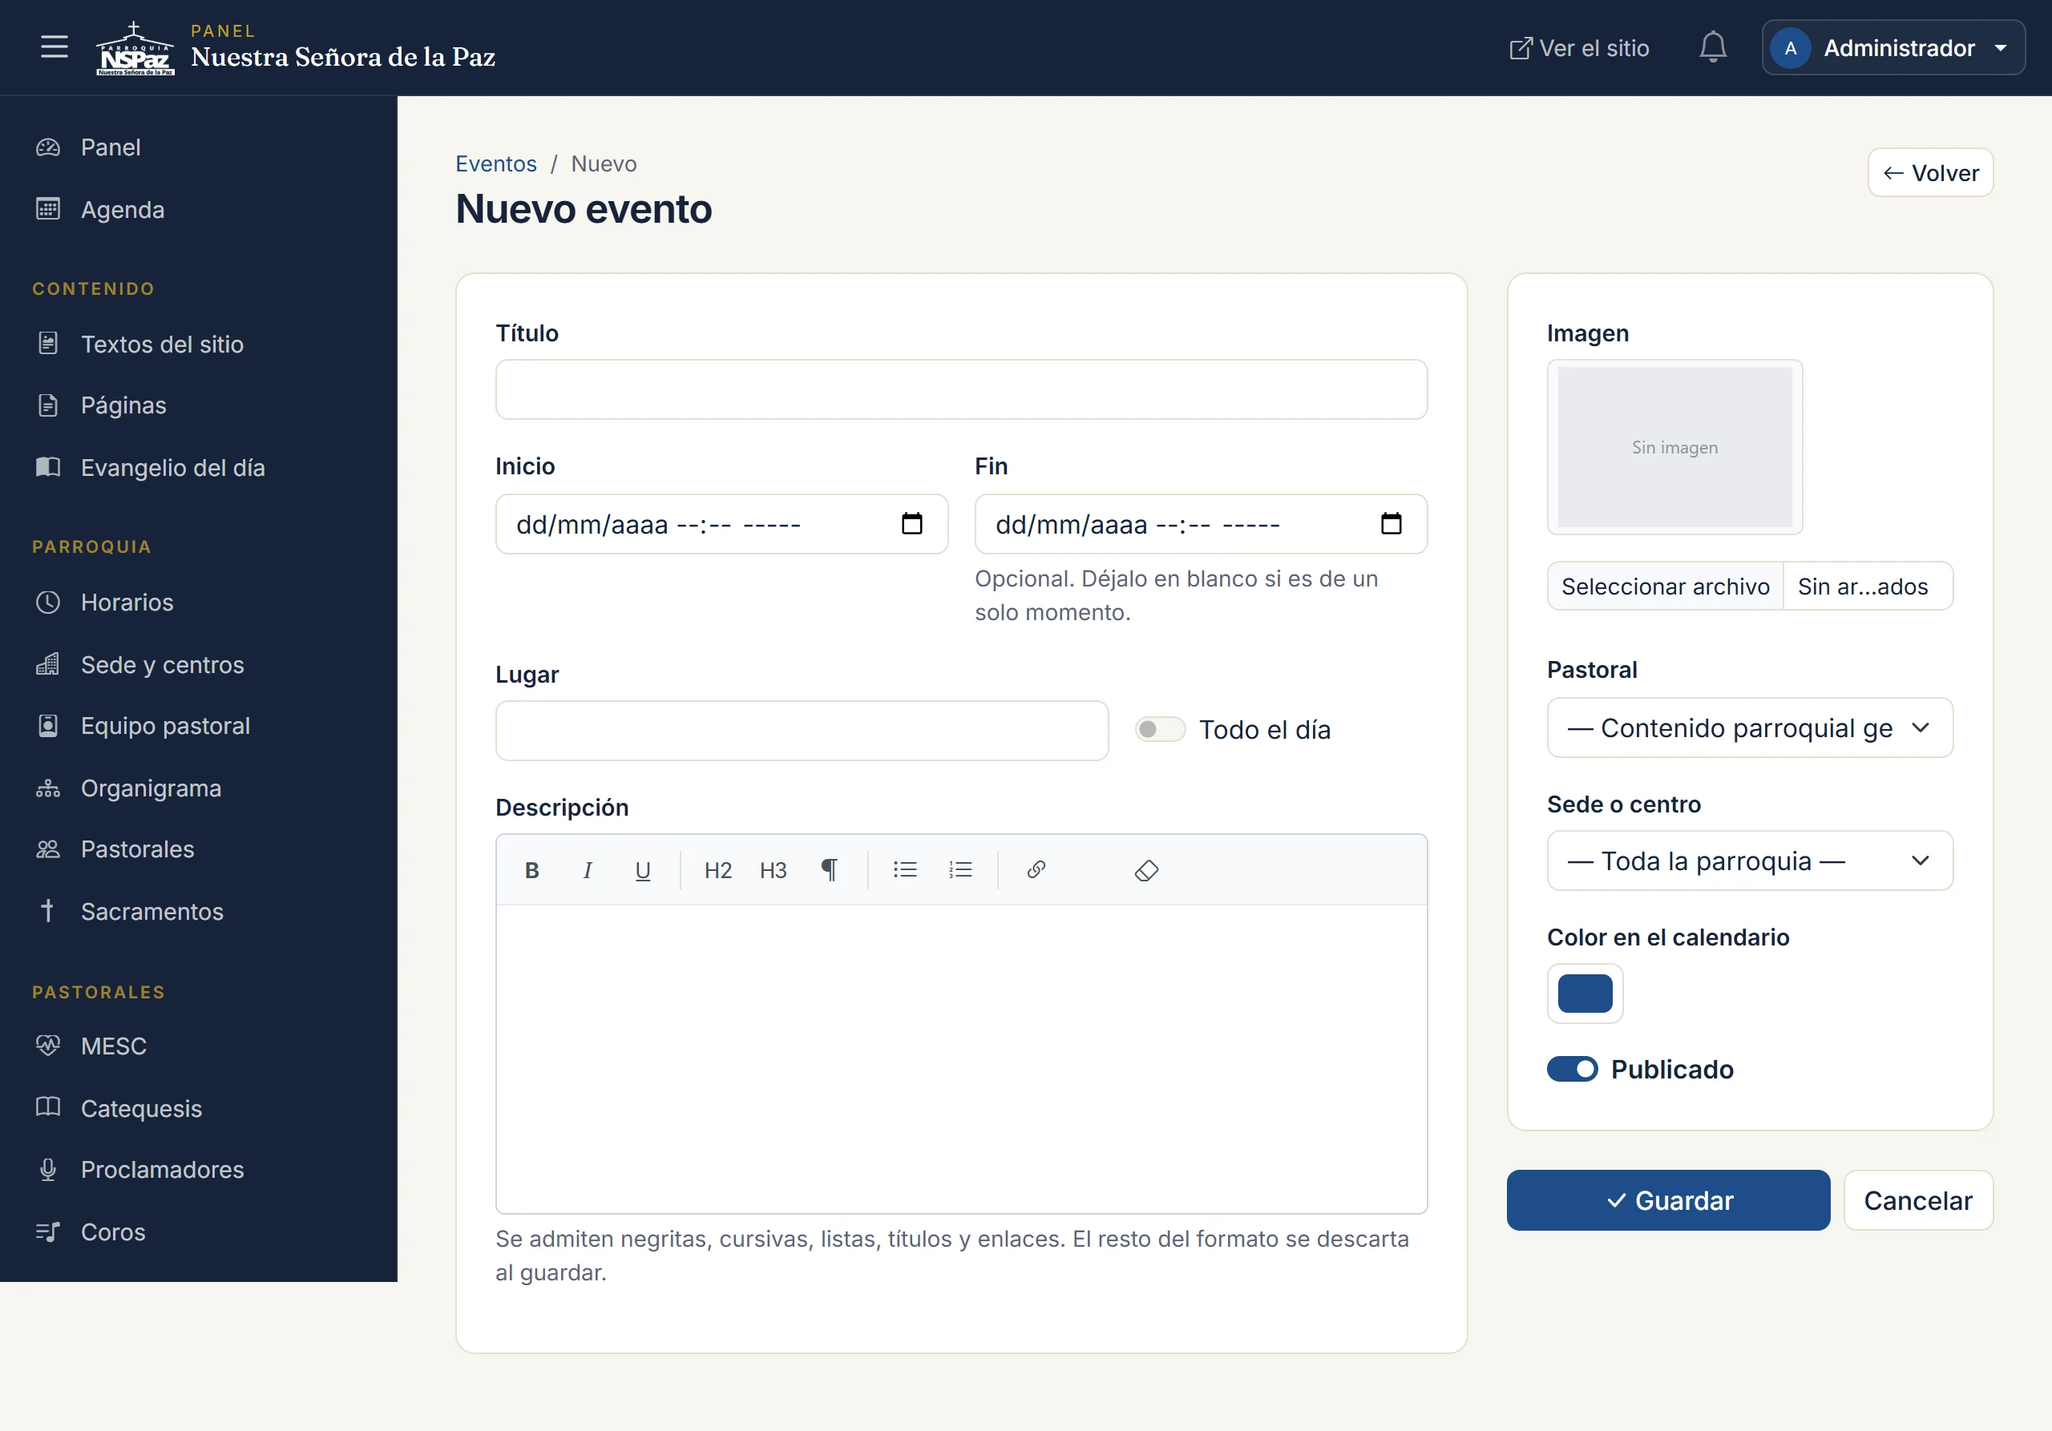
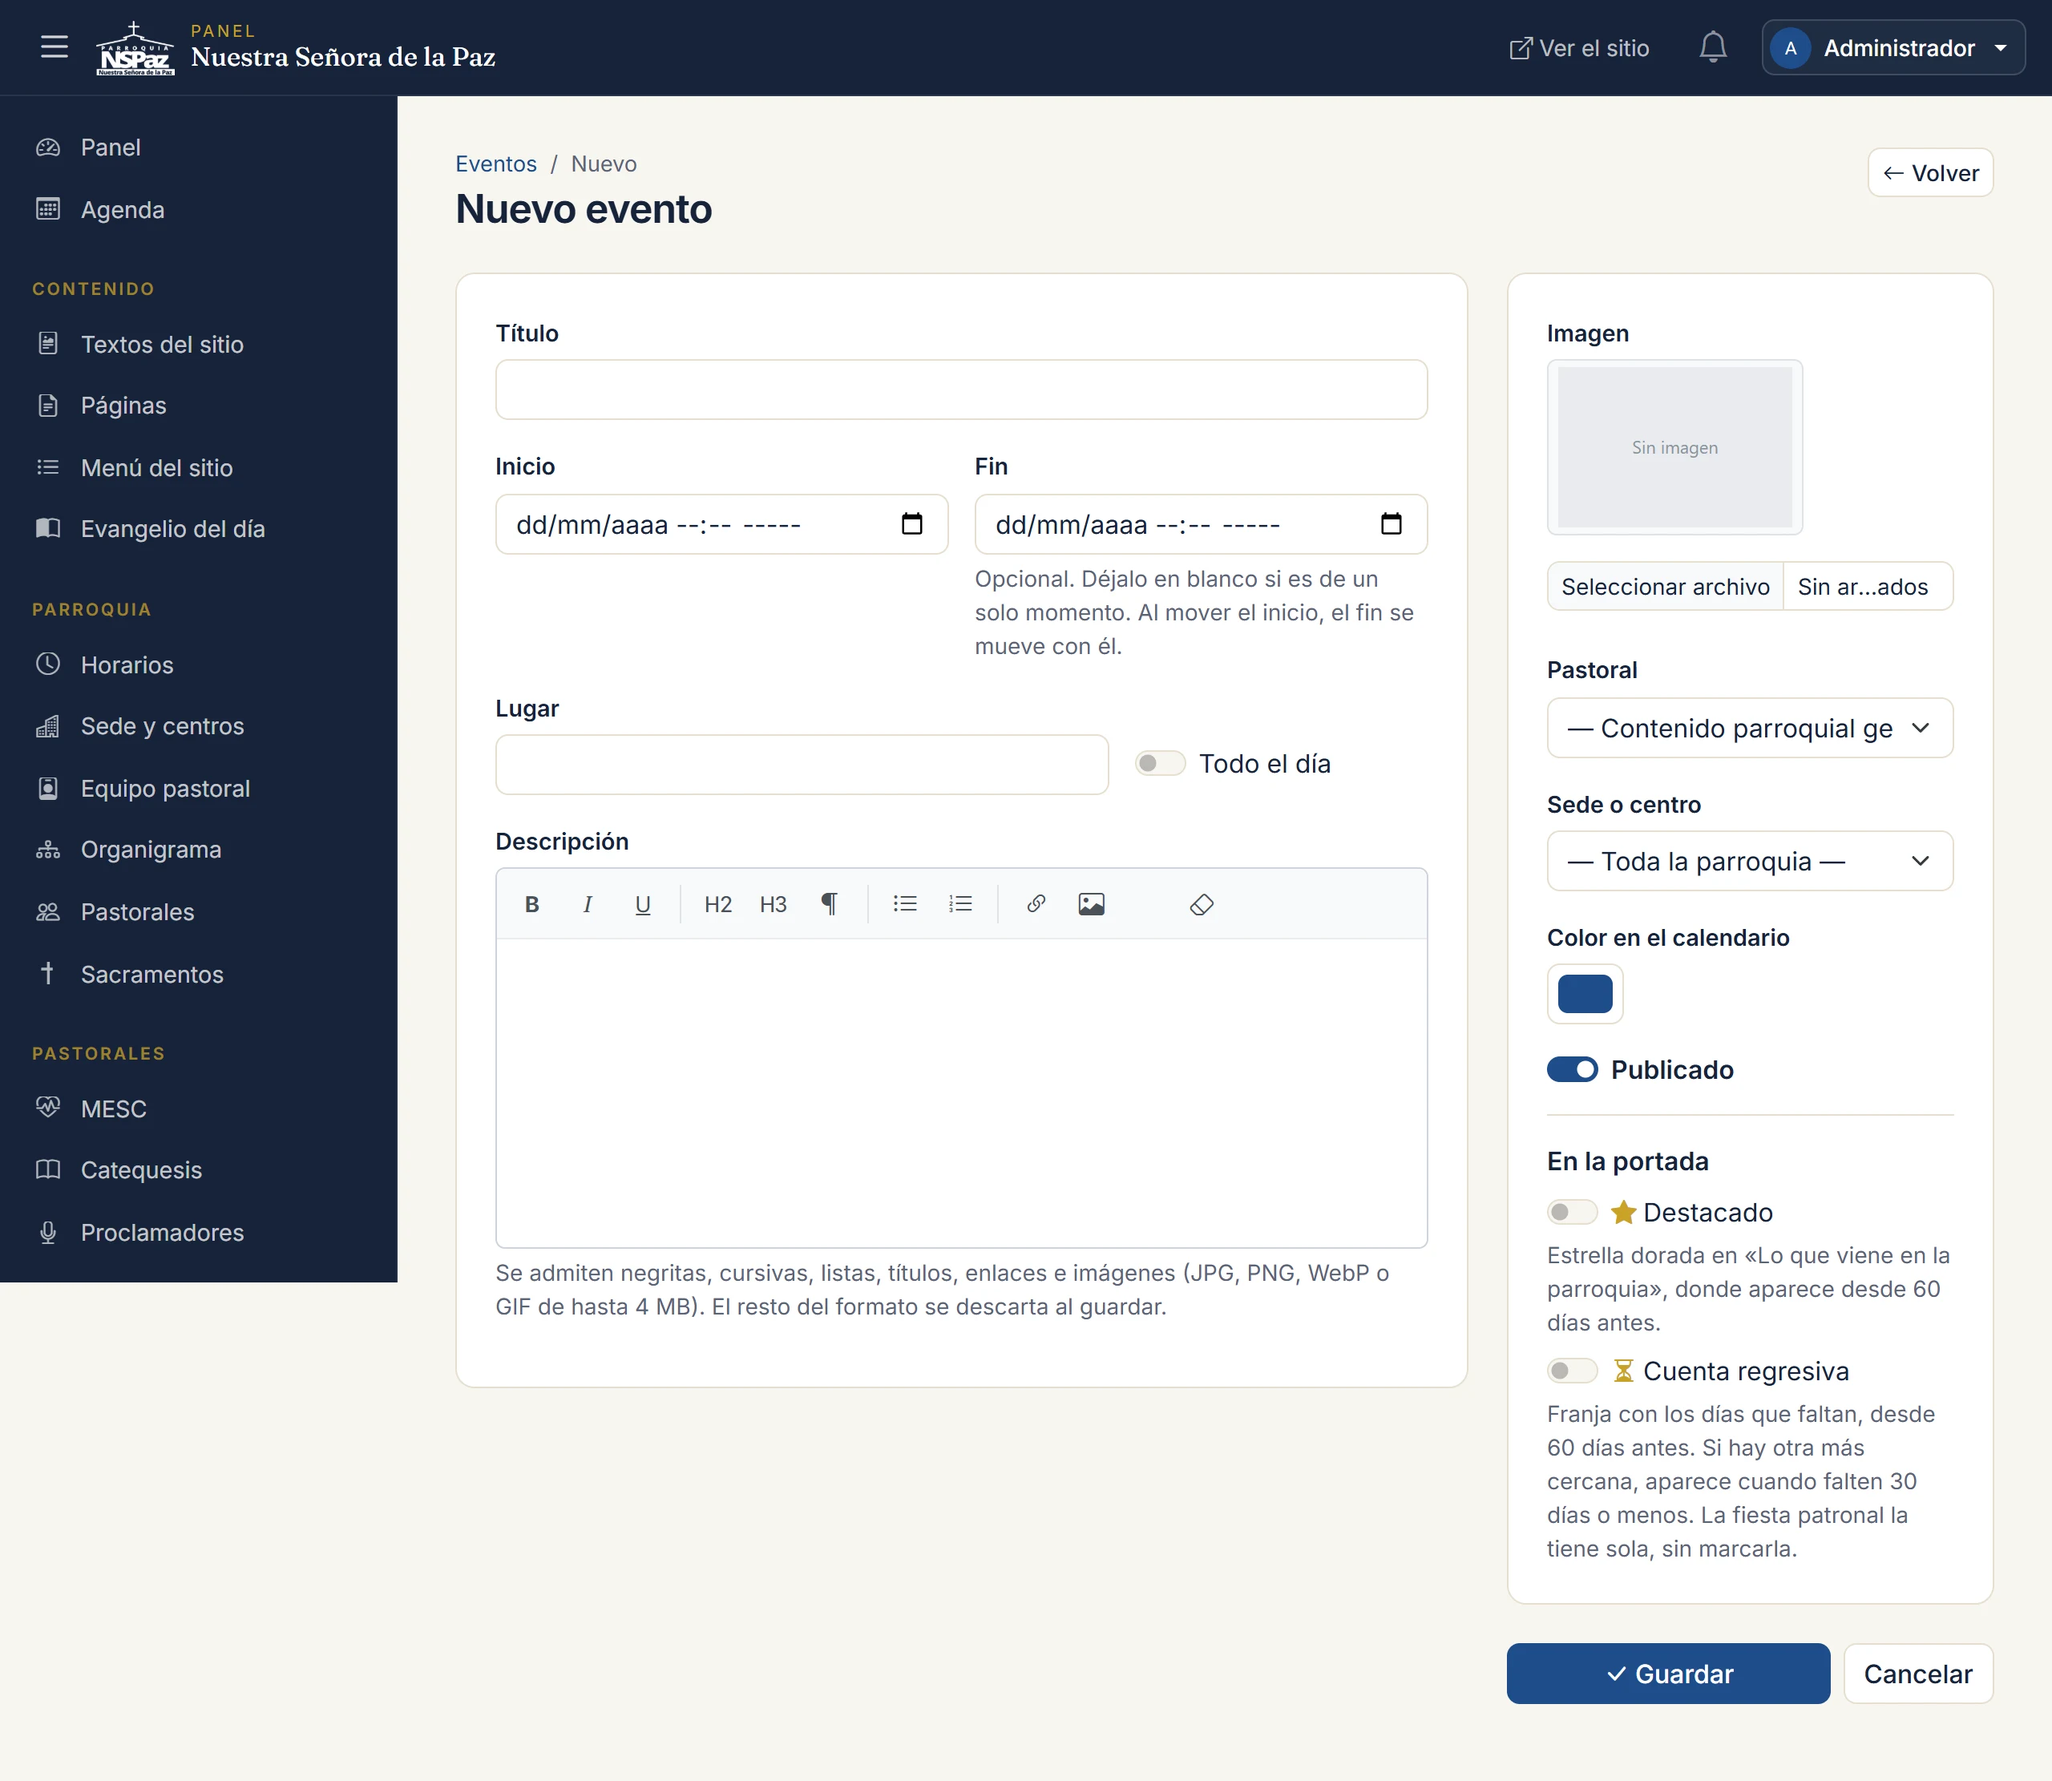
Manual y videos al día con los destacados y la cuenta regresiva
- Capturas nuevas: las franjas con cuenta regresiva y la agenda de la
  portada con los destacados en dorado (publico-inicio-franjas y
  publico-inicio-agenda), tomadas sobre la copia con un evento de ejemplo
  marcado. Para poder recortarlas juntas, las franjas van ahora dentro de un
  contenedor (.franjas-cuenta), que solo se dibuja si hay alguna.
- Rehechas: el formulario de eventos, con el bloque «En la portada», y la
  portada completa.
- El capítulo 1 del manual lleva las dos capturas nuevas.
- Guion 06: dos escenas sobre los interruptores del formulario y una sobre
  las franjas apiladas; las de la portada usan las capturas nuevas, y los
  focos del formulario se volvieron a medir porque la captura creció. Guion
  01: la cuenta regresiva y la agenda en el recorrido de la portada, y los
  eventos con franja propia.

diff --git a/herramientas/capturas_manual_pantallas.js b/herramientas/capturas_manual_pantallas.js
@@ -199,6 +199,28 @@ module.exports = [
         recorte: '#horarios',
     },
     {
+        // Las franjas con cuenta regresiva: la de la fiesta patronal cuando se
+        // acerca y las de los eventos marcados con «Cuenta regresiva». Solo
+        // existen si hay alguna en los próximos dos meses: para que la captura
+        // enseñe más de una, se marca antes algún evento en la copia de la base.
+        id: 'publico-inicio-franjas',
+        titulo: 'Las franjas con cuenta regresiva en la portada',
+        url: '/',
+        sesion: 'publico',
+        espera: '.franjas-cuenta',
+        recorte: '.franjas-cuenta',
+    },
+    {
+        // La agenda de la portada; los destacados van en dorado y con estrella
+        // (lo mismo: se marcan antes en la copia para que se vean).
+        id: 'publico-inicio-agenda',
+        titulo: 'Lo que viene en la parroquia, con los destacados en dorado',
+        url: '/',
+        sesion: 'publico',
+        espera: '#agenda',
+        recorte: '#agenda',
+    },
+    {
         // La cabecera con el recuadro de avisos (lema, presentación y avisos
         // con su miniatura). Las columnas entran con una animación de
         // aparición: se dejan ya en su sitio antes de disparar.

diff --git a/modules/inicio/views/publico/index.php b/modules/inicio/views/publico/index.php
@@ -118,6 +118,8 @@ $meses = ['enero', 'febrero', 'marzo', 'abril', 'mayo', 'junio', 'julio', 'agost
 // trae, y sin esto quedaba «p. m..».
 $cerrarFrase = static fn (string $frase): string => str_ends_with($frase, '.') ? $frase : $frase . '.';
 ?>
+<?php if ($franjas): /* Juntas en un contenedor: el manual las fotografía como un solo recorte. */ ?>
+<div class="franjas-cuenta">
 <?php foreach ($franjas as $franja): ?>
 <?php if ($franja['tipo'] === 'fiesta'): ?>
 <?php
@@ -226,6 +228,8 @@ $fraseCuenta .= $dondeEs !== '' ? ', en ' . $dondeEs : '';
 </section>
 <?php endif; ?>
 <?php endforeach; ?>
+</div>
+<?php endif; ?>
 
 
 <?php /* ================================================================

diff --git a/docs/manual/01-el-sitio-publico.md b/docs/manual/01-el-sitio-publico.md
@@ -113,6 +113,8 @@ formulario. Llevan el título y la fecha del evento y un botón **Ver el evento*
 que abre su página. La franja más cercana sale desde dos meses antes; si hay
 otras, se apilan debajo cuando les falta un mes o menos.
 
+![Las franjas con cuenta regresiva en la portada](img/publico-inicio-franjas.webp)
+
 > **Se llena desde:** Comunicación → Eventos.
 
 **Sacramentos.** Bajo el título «Lo que necesitas para cada sacramento», todos
@@ -139,6 +141,8 @@ uno con su día en un recuadro, el horario y la sede. Van en dorado y con
 estrella los de la fiesta patronal —novena, fiesta y kermés— y los que tienen
 encendido **Destacado** o **Cuenta regresiva**. Esos destacados aparecen aquí
 desde dos meses antes, aunque todavía no estén entre los próximos.
+
+![Lo que viene en la parroquia, con los destacados en dorado](img/publico-inicio-agenda.webp)
 
 > **Se llena desde:** Comunicación → Eventos.
 
